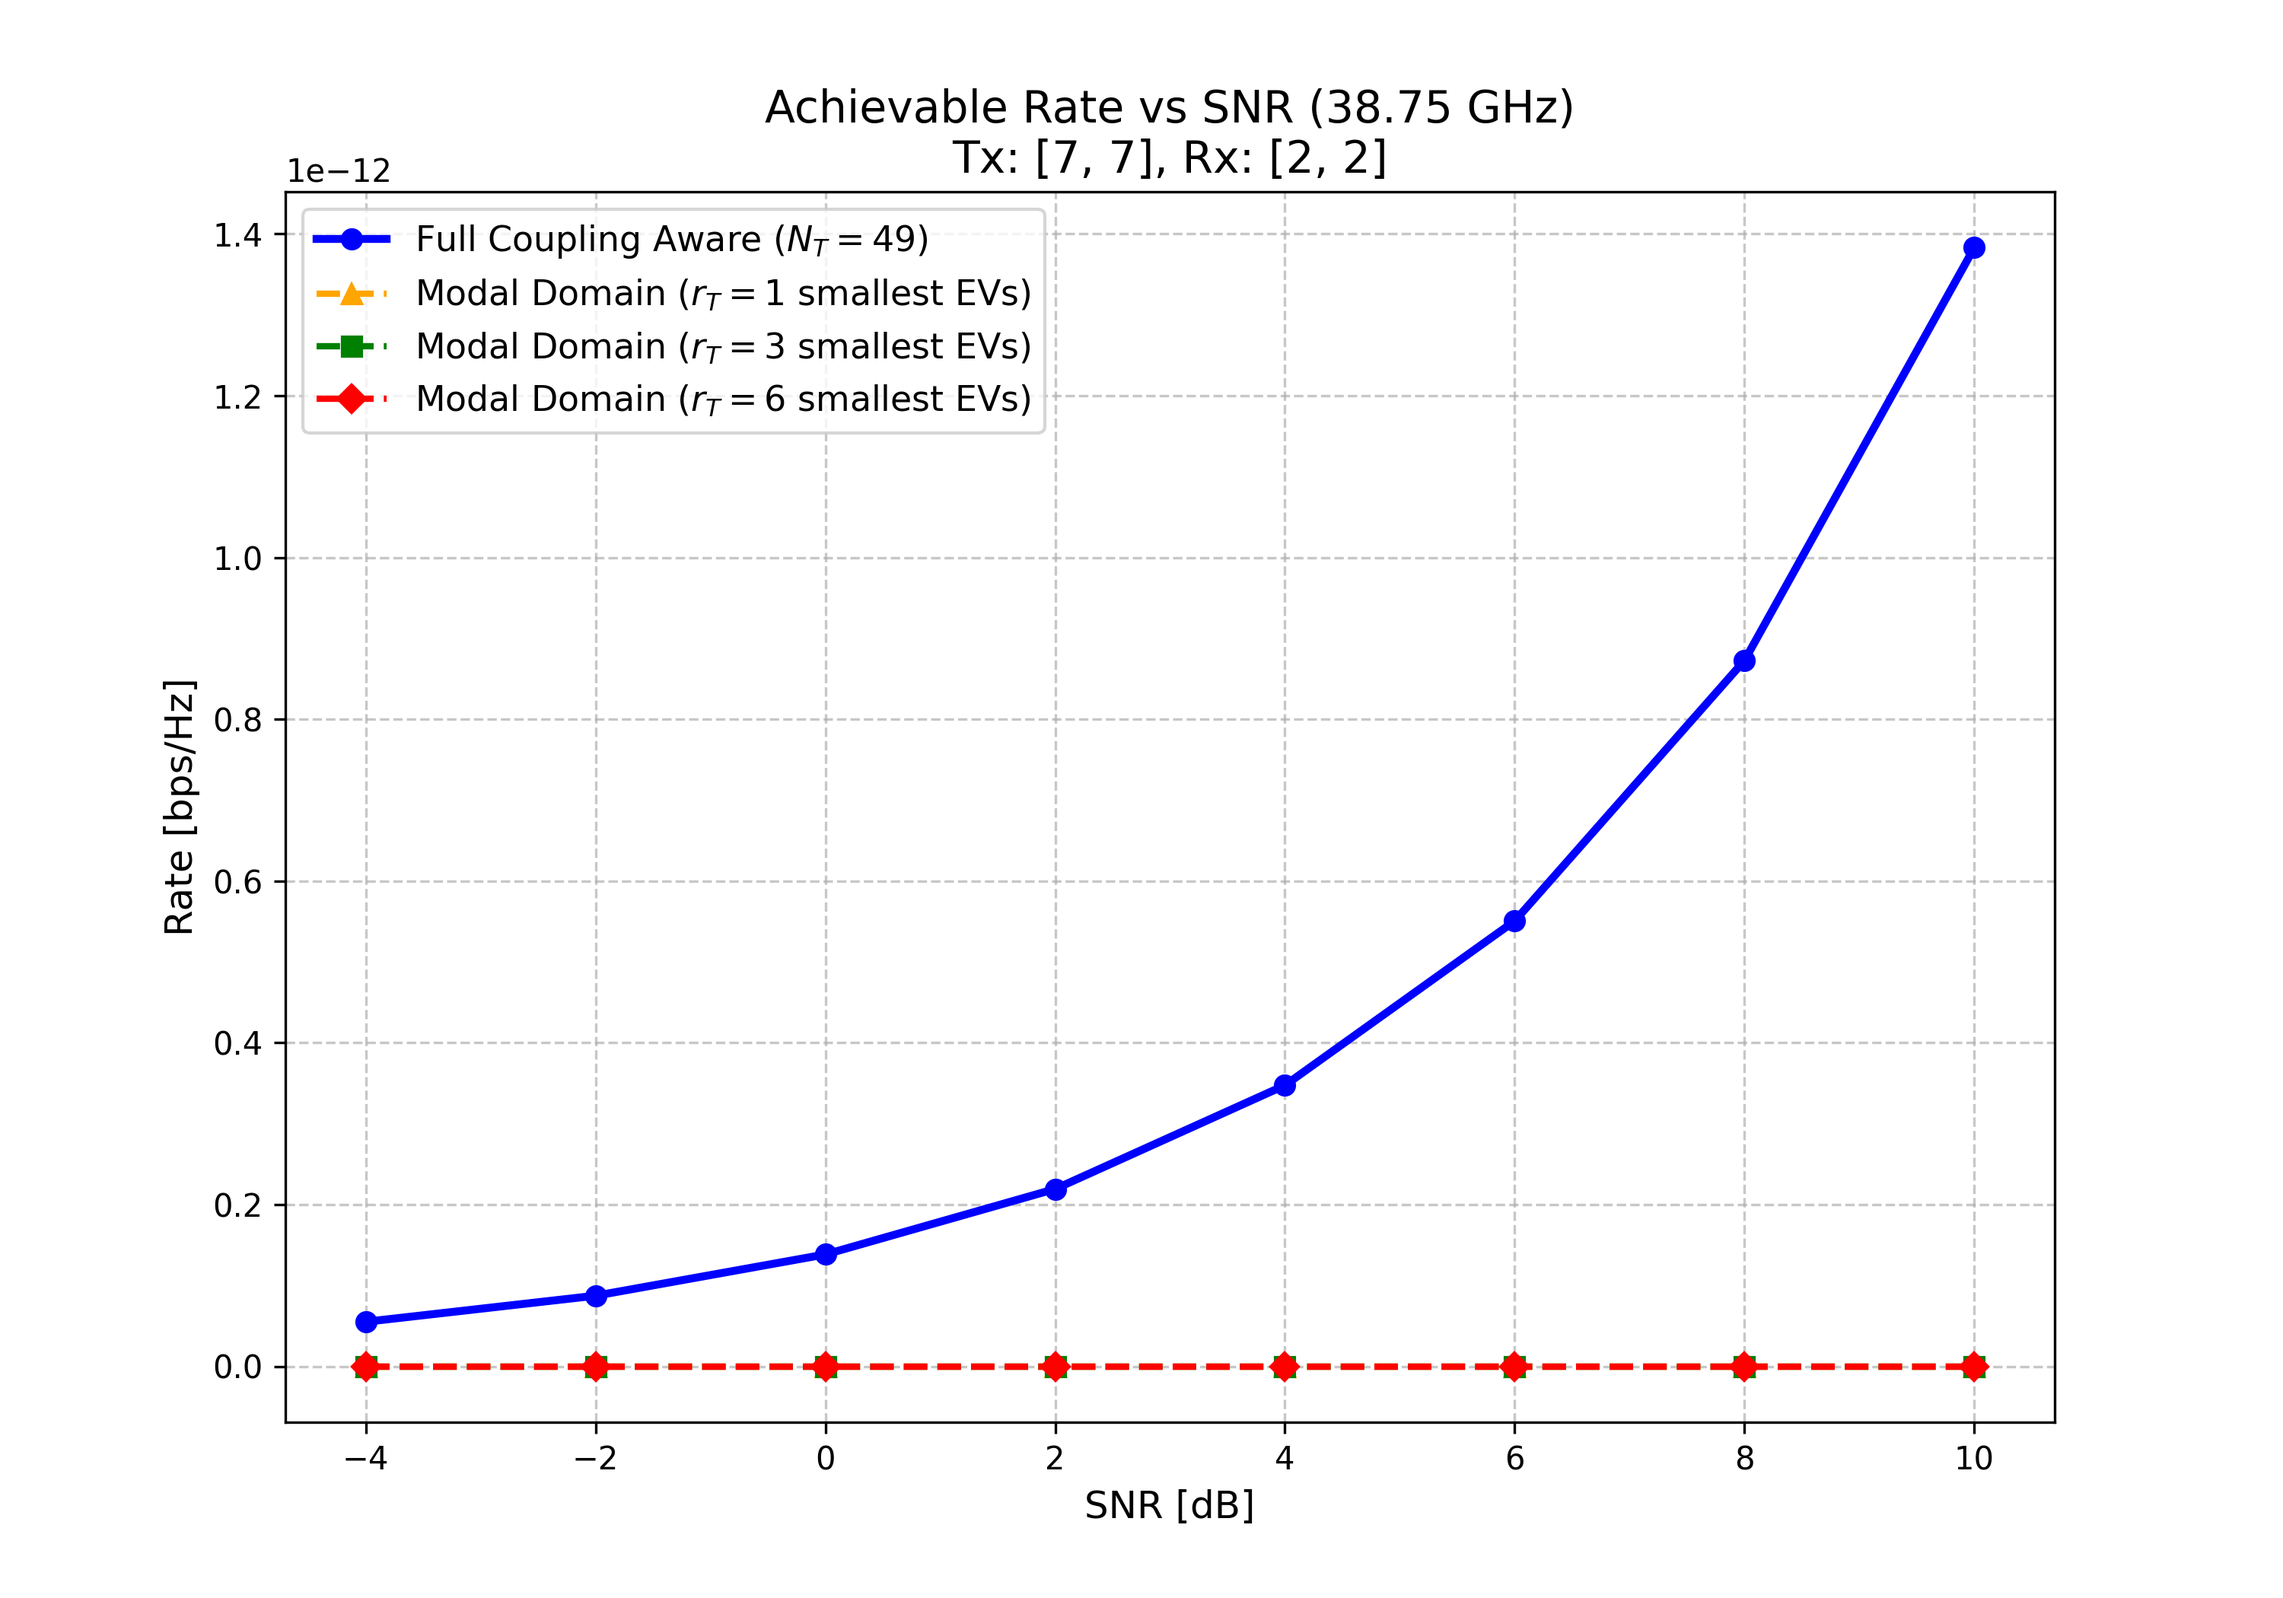
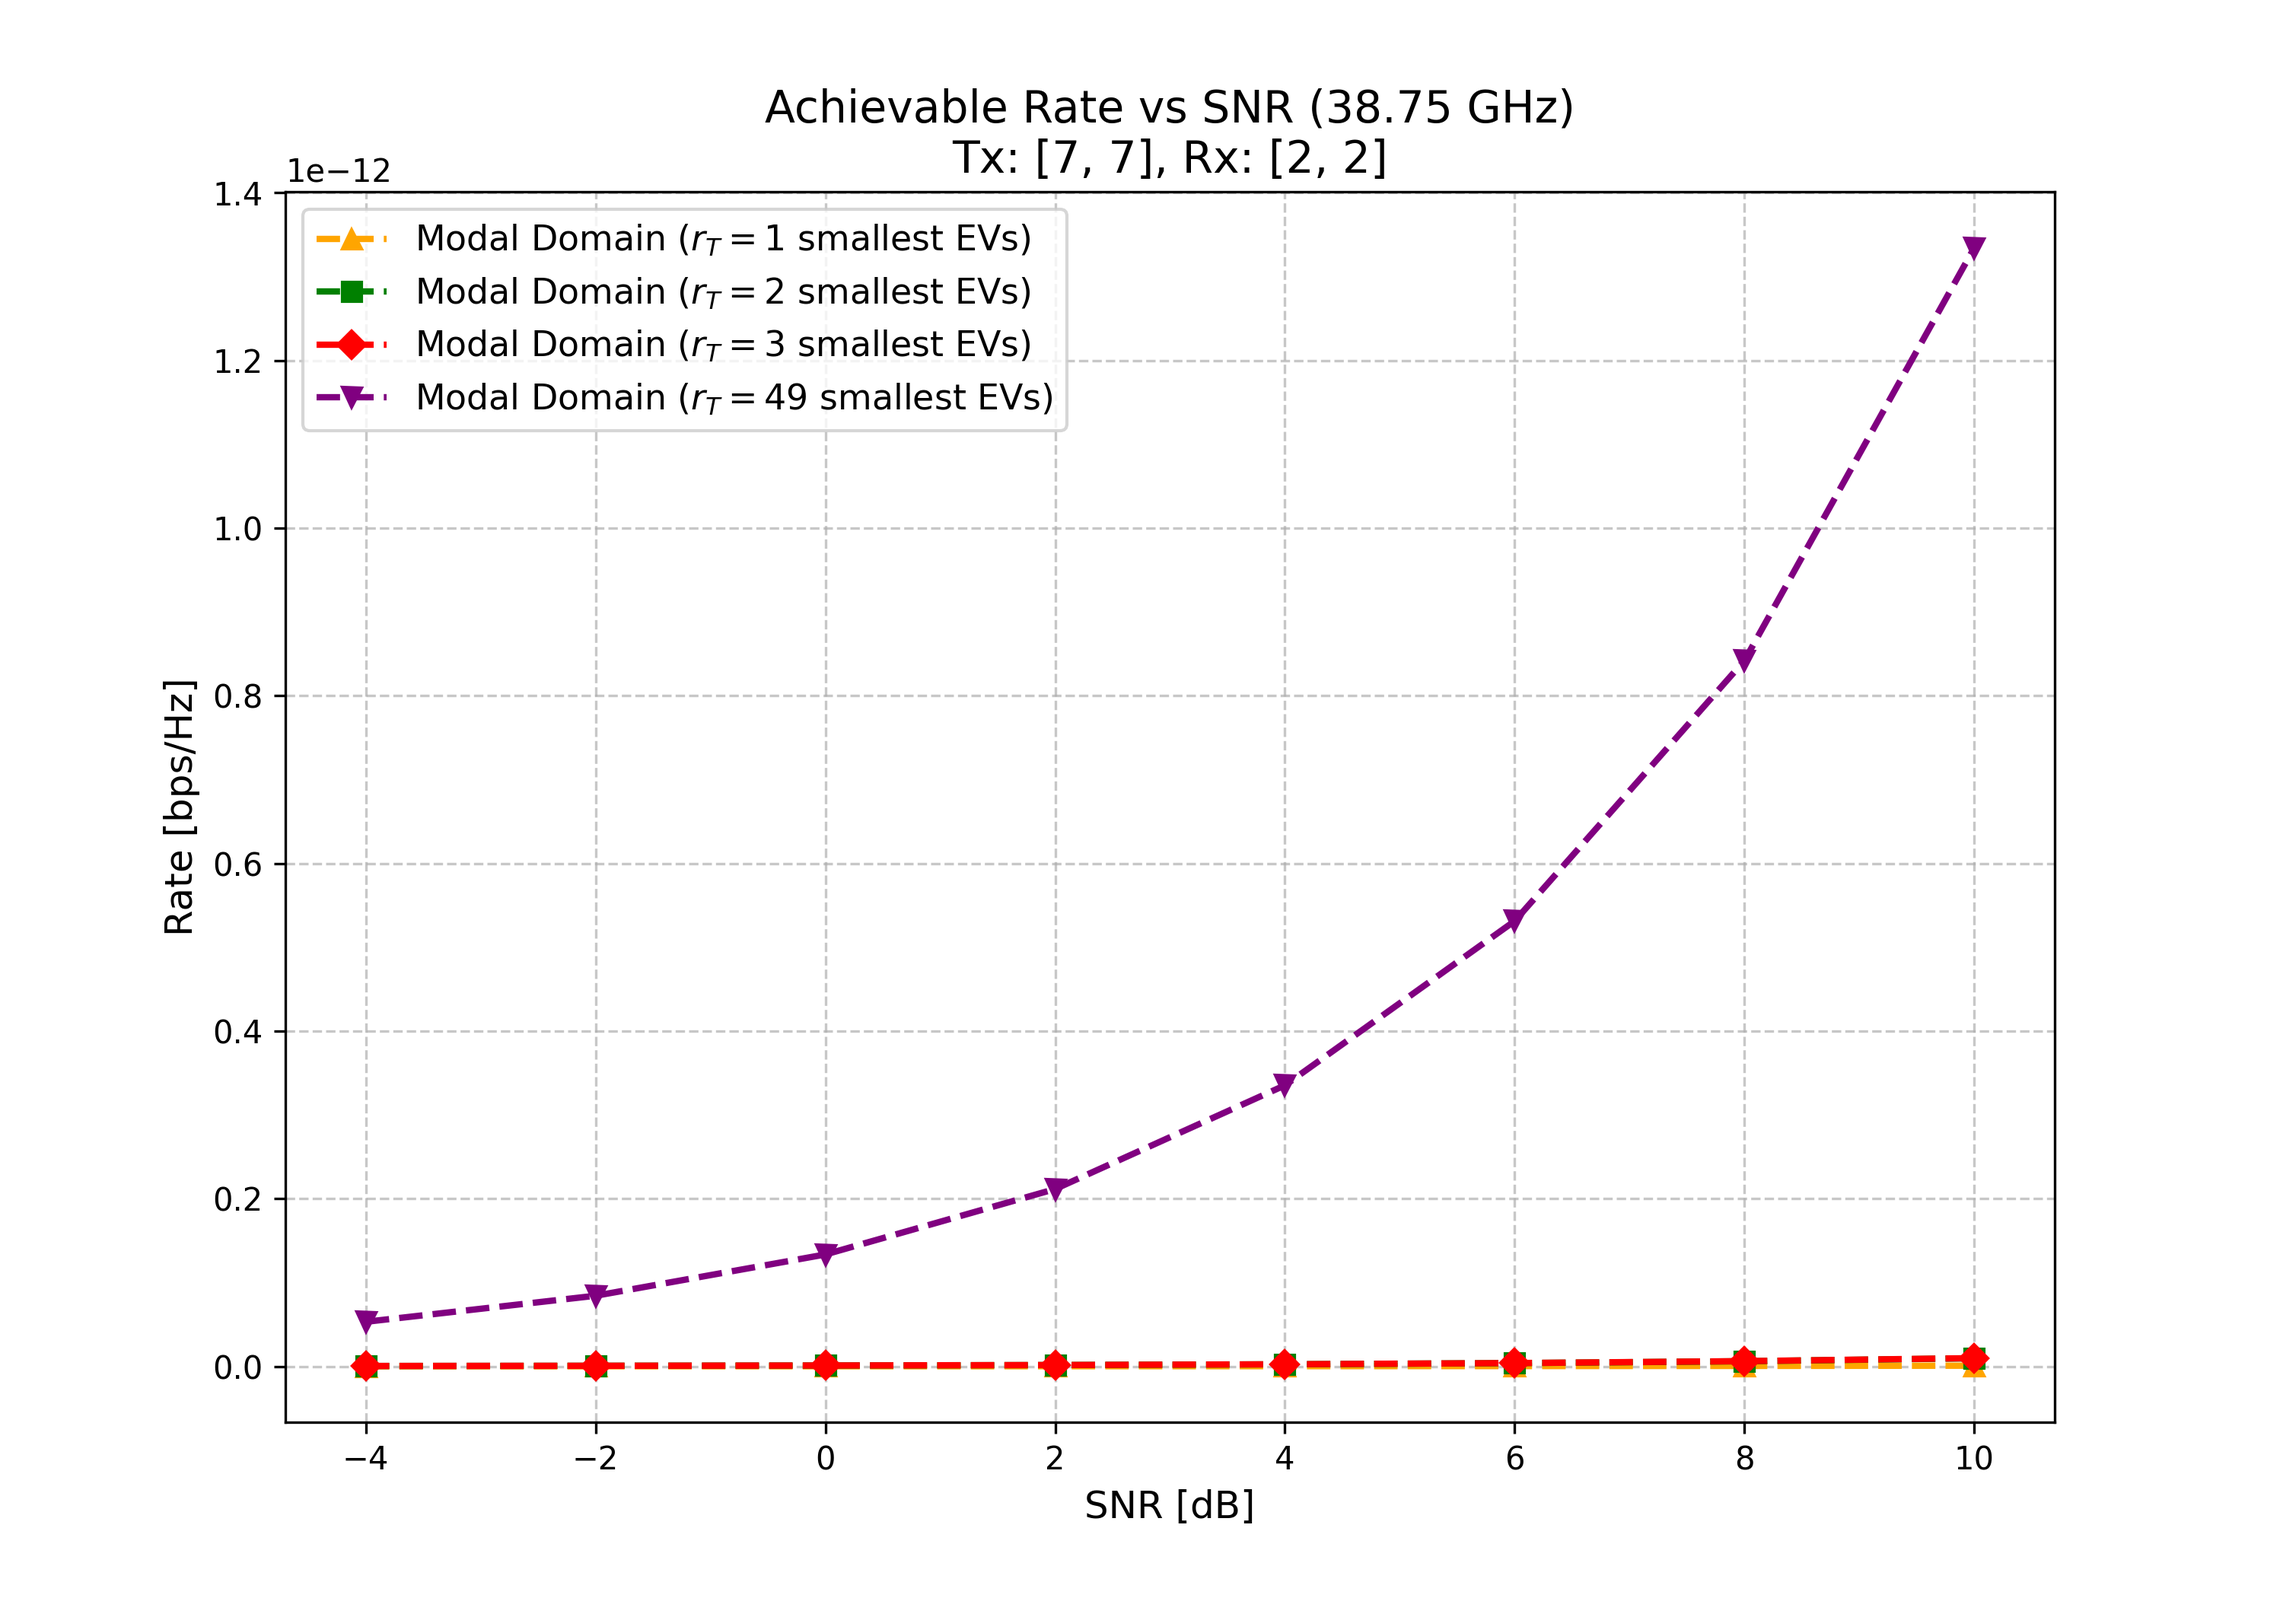
feat: Euclidean nmlz instead of URU, plot smallest & largest EVs' rates

diff --git a/small_scale_channel_tracking/data/mode_tracking/plot_multi_RT_rate.py b/small_scale_channel_tracking/data/mode_tracking/plot_multi_RT_rate.py
@@ -13,16 +13,16 @@ CHAN_DIR = os.path.join(SCRIPT_DIR, "..", "channel")
 
 # --- Mode Selection ---
 # Set to 39 for 39 GHz band, or 2 for 2 GHz band
-MODE = 39 
+MODE = 2
 
 if MODE == 39:
     CENTER_FREQ_STR = "38.75"  # Exact string used in your new MATLAB saves
     CHANNEL_FREQ_GHZ = 39      # Integer used for channel tracing filename
-    RT_LIST = [1, 3, 6]        # The rank truncations to test
+    RT_LIST = [1, 2, 3, 49]        # The rank truncations to test
 elif MODE == 2:
     CENTER_FREQ_STR = "2.06"
     CHANNEL_FREQ_GHZ = 2
-    RT_LIST = [10, 20, 43]     # Example list for 2 GHz
+    RT_LIST = [10, 20, 43, 49]     # Example list for 2 GHz
 
 # Array Dimensions
 TX_DIM = [7, 7]
@@ -117,7 +117,7 @@ def main():
     for rt in RT_LIST:
         # Note: Your new GEVD script sorted abs(lambda) in ASCENDING order. 
         # The smallest eigenvalues (lowest X/R) are at the FRONT.
-        U_T_trunc = U_T_full[:, :49] 
+        U_T_trunc = U_T_full[:, :rt] 
         
         term1 = np.matmul(U_R_trunc.conj().T[None, :, :], H_c_all) 
         H_tilde_all[rt] = np.matmul(term1, U_T_trunc[None, :, :]) 
@@ -148,7 +148,7 @@ def main():
 
     # 5. Plotting
     plt.figure(figsize=(10, 7))
-    plt.plot(SNR_dB_Range, rate_coupling_avg, 'b-o', label=f'Full Coupling Aware ($N_T={N_T}$)', linewidth=2.5)
+    # plt.plot(SNR_dB_Range, rate_coupling_avg, 'b-o', label=f'Full Coupling Aware ($N_T={N_T}$)', linewidth=2.5)
     
     # Plotting different RT lines with distinct colors and markers
     colors = ['orange', 'green', 'red', 'purple', 'cyan']

diff --git a/small_scale_channel_tracking/data/mode_tracking/Generalized_Eig_Decomp.m b/small_scale_channel_tracking/data/mode_tracking/Generalized_Eig_Decomp.m
@@ -8,7 +8,7 @@ clear; clc;
 % freqs_GHz = [2.0125, 2.0375, 2.0625, 2.0875, 2.1125];
 % freqs_GHz = [38.75];
 freqs_GHz = [2.0625];
-grid_size = [2, 2];  % Currently testing 2x2
+grid_size = [7, 7];  % Currently testing 2x2
 asf = 2;             % Antenna spacing factor
 
 % Input/Output Directories
@@ -54,25 +54,14 @@ for i = 1:length(freqs_GHz)
     lambda_values = diag(Lambda_Matrix);
 
     % --- D. Normalization (PDF Eq 5) ---
-    % Requirement: u^H * R * u = 1
+    % Requirement: ||u_k||_2 = 1 (Euclidean Norm)
     [N, M] = size(U_raw);
     U_norm = zeros(N, M);
 
     for k = 1:M
         u_k = U_raw(:, k);
-
-        % Calculate radiated power of this mode
-        p_rad = u_k' * R_T * u_k;
-
-        % Check for numerical stability (p_rad should be positive real)
-        if abs(p_rad) < 1e-15
-            scaling = 1.0; % Avoid division by zero for null modes
-            print('Warning: p_rad is very small (close to zero). Scaling set to 1.0.')
-        else
-            scaling = 1.0 / sqrt(abs(p_rad)); % Use abs to handle tiny numerical imag parts
-        end
-
-        U_norm(:, k) = u_k * scaling;
+        % Divide the vector by its L2 norm to make its length exactly 1
+        U_norm(:, k) = u_k / norm(u_k);
     end
     % --- E. Sorting (Initial) ---
     % We sort by Magnitude of lambda (Smallest |X/R| first)
